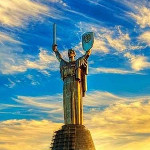
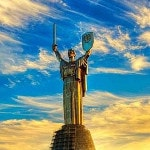
Compress images, add Intro text

diff --git a/src/components/start_page.js b/src/components/start_page.js
@@ -6,11 +6,28 @@ export default class StartPage extends Component {
     render() {
         return (
             <div>
-                <Link
-                    to="/game1"
-                    className="btn btn-primary">
-                    Go To Game
-                </Link>
+                <div className="card-header">
+                    <p>
+                        This is a popular memory game in which you can test and improve you memory.
+                        You should open cards one by one. If the images match, the cards remain open.
+                        The goal is to open all the cards in as few attempts as possible.
+                    </p>
+                    <p>
+                        The first game is easier and there you should match the pictures of the world capitals.
+                        The second one is more difficult and is about various front-end technologies.
+                    </p>
+                    <p>
+                        Choose whichever game you like, test your memory and enjoy the game!
+                        Good luck!
+                    </p>
+                </div>
+                <div id="game1-start-button">
+                    <Link
+                        to="/game1"
+                        className="btn btn-primary btn-lg">
+                        World Capitals
+                    </Link>
+                </div>
             </div>
         );
     }

diff --git a/src/components/square.js b/src/components/square.js
@@ -12,8 +12,8 @@ class Square extends React.Component {
         return (
             <button className={ `square number-${squareNumber} ${addedClass}` }
                     onClick={() => {this.props.onClick(squareNumber)}}
-                    clickable={this.props.clickable}
-            ></button>
+                    clickable={this.props.clickable}>
+            </button>
         )
     }
 }

diff --git a/src/components/app.js b/src/components/app.js
@@ -6,7 +6,6 @@ export default class App extends Component {
     return (
         <div className="header">
             <h2>Memory Game</h2>
-            <h4>World Capitals</h4>
             {this.props.children}
         </div>
     );

diff --git a/style/style.css b/style/style.css
@@ -1,3 +1,11 @@
+.card-header {
+    text-align: center;
+    margin: 2em auto;
+}
+
+#game1-start-button {
+    text-align: center;
+}
 
 .content-container {
     display: flex;
